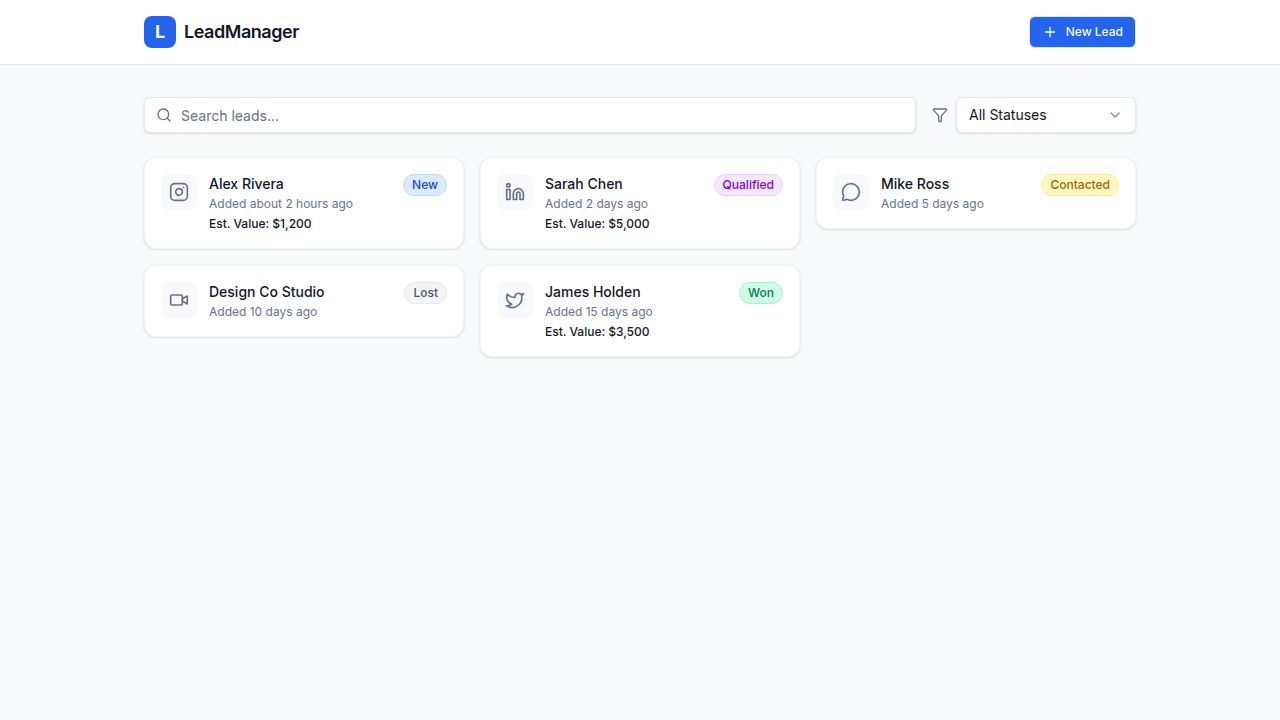
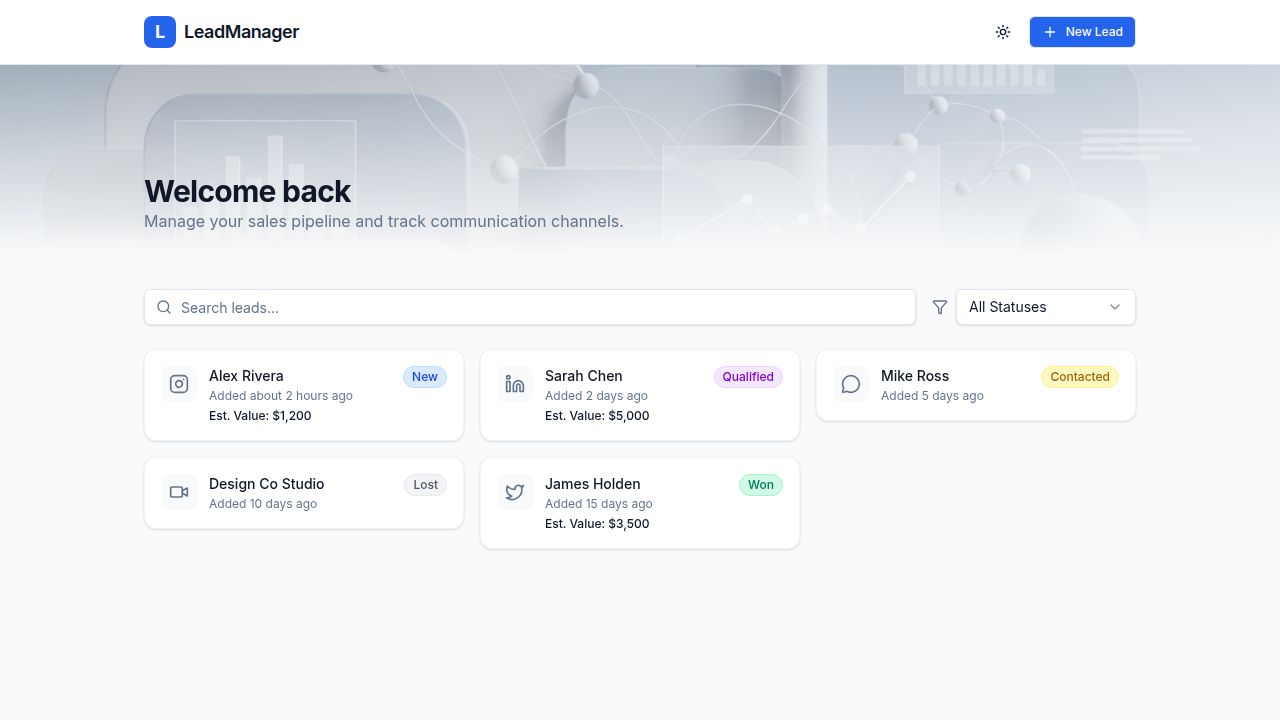
Add a professional hero image and welcome message to the lead management dashboard
Integrates a new `lead_management_abstract_workspace_background.png` image into the dashboard's hero section, enhancing visual appeal and providing a welcoming message.

Replit-Commit-Author: Agent
Replit-Commit-Session-Id: 196109c0-836b-4f04-9357-c7a5f93b547f
Replit-Commit-Checkpoint-Type: full_checkpoint
Replit-Commit-Event-Id: d85279c0-6e6f-406c-921f-e2f46e9011b4
Replit-Commit-Screenshot-Url: https://storage.googleapis.com/screenshot-production-us-central1/a9c5f804-5421-4bef-8cb4-6291736aefb4/196109c0-836b-4f04-9357-c7a5f93b547f/1VxsYhy
Replit-Helium-Checkpoint-Created: true

diff --git a/client/src/pages/dashboard.tsx b/client/src/pages/dashboard.tsx
@@ -25,6 +25,7 @@ import { zodResolver } from "@hookform/resolvers/zod";
 import * as z from "zod";
 import { Form, FormControl, FormField, FormItem, FormLabel, FormMessage } from "@/components/ui/form";
 import { ThemeToggle } from "@/components/theme-toggle";
+import heroImage from "@assets/generated_images/lead_management_abstract_workspace_background.png";
 
 const formSchema = z.object({
   name: z.string().min(2, "Name is required"),
@@ -183,6 +184,19 @@ export default function Dashboard() {
           </div>
         </div>
       </header>
+
+      <div className="w-full h-48 relative overflow-hidden bg-muted">
+        <img 
+          src={heroImage} 
+          alt="Lead Management" 
+          className="w-full h-full object-cover opacity-50 dark:opacity-30 mix-blend-multiply dark:mix-blend-overlay"
+        />
+        <div className="absolute inset-0 bg-gradient-to-t from-background to-transparent" />
+        <div className="absolute bottom-6 left-0 right-0 max-w-5xl mx-auto px-4">
+          <h2 className="text-3xl font-bold tracking-tight text-foreground">Welcome back</h2>
+          <p className="text-muted-foreground">Manage your sales pipeline and track communication channels.</p>
+        </div>
+      </div>
 
       <main className="max-w-5xl mx-auto px-4 py-8">
         <div className="flex flex-col sm:flex-row gap-4 mb-6">
